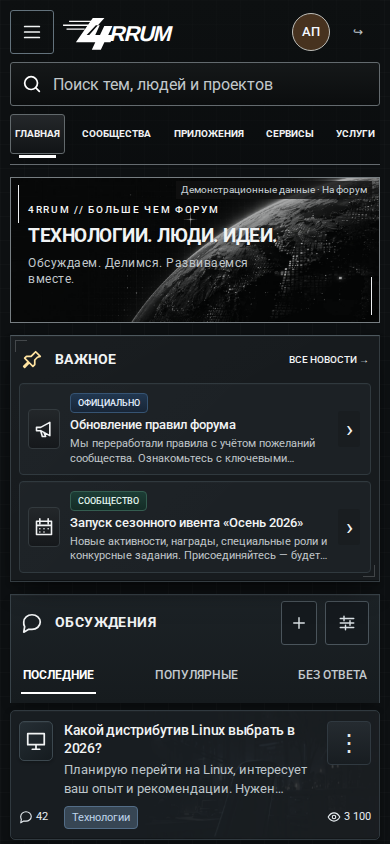
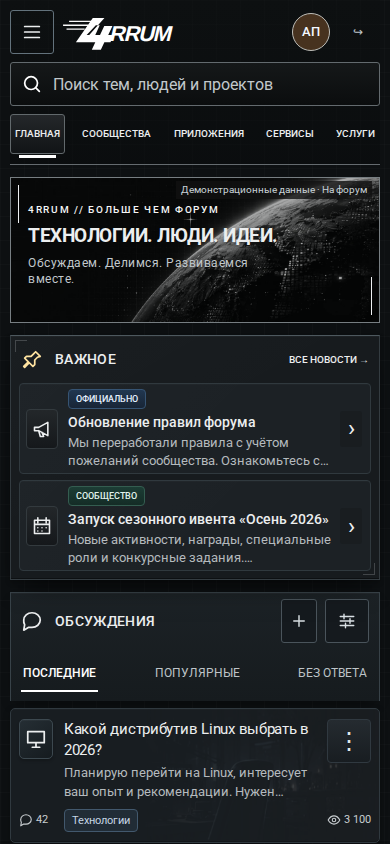
Главная: читаемая типографика и нейтральные цвета текста (#125)
* Forum typography: clearer content hierarchy and neutral secondary text

* Typography acceptance: retain the intentional neutral heading color

* Keep announcement spacing compact with larger readable copy

* Refresh reviewed typography baselines and restore strict visual checks

diff --git a/apps/web/app/home-alpha.css b/apps/web/app/home-alpha.css
@@ -124,8 +124,8 @@ body:has(.forum-home) .site-footer {display:none;}
 .forum-home .forum-topic-main-link::after {content:"";position:absolute;inset:0;z-index:0;}
 .forum-home .forum-topic > :not(.forum-topic-content) {position:relative;z-index:1;}
 .forum-home .forum-topic-content {grid-column:2;grid-row:1;min-width:0;}
-.forum-home .forum-topic h2 {font-size:14px;line-height:1.22;font-weight:500;margin:0 0 4px;display:-webkit-box;-webkit-line-clamp:2;-webkit-box-orient:vertical;overflow:hidden;}
-.forum-home .forum-topic-excerpt {font-size:12px;line-height:1.4;color:#c9cdcf;display:-webkit-box;-webkit-line-clamp:2;-webkit-box-orient:vertical;overflow:hidden;margin:0;}
+.forum-home .forum-topic h2 {font-size:15px;line-height:1.3;font-weight:400;margin:0 0 4px;display:-webkit-box;-webkit-line-clamp:2;-webkit-box-orient:vertical;overflow:hidden;}
+.forum-home .forum-topic-excerpt {font-size:13px;line-height:1.4;color:#b5babe;display:-webkit-box;-webkit-line-clamp:2;-webkit-box-orient:vertical;overflow:hidden;margin:0;}
 .forum-home .forum-topic-context {display:none;}
 .forum-home .forum-topic-category-cell {grid-column:3;min-width:0;}
 .forum-home .forum-topic-category-cell a {display:block;overflow:hidden;text-overflow:ellipsis;white-space:normal;overflow-wrap:anywhere;line-height:1.2;border:1px solid color-mix(in srgb,var(--chip-accent,#98b4cd) 45%,#42484c);border-radius:4px;background:color-mix(in srgb,var(--chip-accent,#98b4cd) 22%,#2a2e31);color:color-mix(in srgb,var(--chip-accent,#98b4cd) 42%,#fff);font-size:12px;padding:5px 8px;}
@@ -228,7 +228,7 @@ body:has(.forum-home) .site-footer {display:none;}
  .forum-home .forum-topic {grid-template-columns:44px minmax(0,1fr) 96px 30px 38px 100px 28px;gap:7px;padding-left:8px;}
  .forum-home .forum-topic-columns {grid-template-columns:minmax(0,1fr) 96px 30px 38px 100px 28px;gap:7px;padding-left:60px;font-size:8px;}
  .forum-home .forum-topic-category-icon {width:42px;height:46px;}
- .forum-home .forum-topic h2 {font-size:13px;}.forum-home .forum-topic-excerpt {font-size:11px;}
+ .forum-home .forum-topic h2 {font-size:14px;}.forum-home .forum-topic-excerpt {font-size:12.5px;}
  .forum-home .forum-topic-category-cell a {font-size:11px;padding:5px 6px;}
  .forum-home .forum-topic-last {gap:6px;}.forum-home .forum-topic-last .avatar {width:28px!important;height:28px!important;}
  .forum-home .forum-topic-last strong {font-size:11px;}.forum-home .forum-topic-last time {font-size:10px;}
@@ -304,12 +304,12 @@ body:has(.forum-home) .site-footer {display:none;}
 .forum-home .forum-topic {background:#181d21;border-color:#30393f;box-shadow:inset 0 1px #ffffff06,inset 0 -1px #0004,0 3px 7px #0004;}
 .forum-home .forum-topic::after {opacity:.24;filter:saturate(.18) contrast(.8);mask-image:linear-gradient(90deg,transparent 35%,#0008 65%,#000 100%);}
 .forum-home .forum-topic:hover,.forum-home .forum-topic:focus-within {border-color:#718a87;box-shadow:inset 0 1px #ffffff0c,0 0 0 1px #92b6ad18,0 5px 12px #0006;}
-.forum-home .forum-topic-excerpt {color:#bdc5ca;}
+.forum-home .forum-topic-excerpt {color:#b5babe;}
 .forum-home .forum-topic-category-icon {background:linear-gradient(145deg,#252e34,#151b1f);border-color:#3c484f;box-shadow:inset 0 1px #ffffff09,0 2px 3px #0003;}
 .forum-home .forum-category-heading.is-active {background:linear-gradient(90deg,#c2ded70a,transparent);box-shadow:inset 2px 0 #b4d4ca;}
 .forum-home .forum-ranking-tabs button[aria-pressed=true] {background:#152623;border-color:#45615a;box-shadow:inset 0 1px #c2ded70a;}
 .forum-home .forum-topic.is-read h2 {color:#dce1e4;}
-.forum-home .forum-topic.is-read .forum-topic-excerpt {color:#b8c0c5;}
+.forum-home .forum-topic.is-read .forum-topic-excerpt {color:#adb3b7;}
 .forum-home .forum-category-heading:has(.forum-category-toggle)>a {max-width:calc(100% - 48px);}
 .forum-home .forum-category-heading:has(.forum-category-toggle) .forum-category-counts {min-width:18px;}
 
@@ -332,4 +332,34 @@ body:has(.forum-home) .site-footer {display:none;}
   .forum-home .forum-ranking-tabs button,.forum-home .forum-ranking-period button {min-height:44px;font-size:12px;}
   .forum-home .forum-hero-kicker {font-size:10px;}
   .forum-home .forum-alpha-help a {min-height:44px;}
+}
+
+/* Editorial hierarchy: content first, quiet neutral metadata, real font weights. */
+.forum-home {--f-text:#eceeef;--f-muted:#b5babe;font-synthesis:none;}
+.forum-home :is(.forum-topic h2,.forum-important-text strong,.forum-popular-today strong) {color:#eceeef;}
+.forum-home :is(.forum-eyebrow,.forum-side-stats h2,.forum-panel h2,.forum-feed-title,.forum-important>header h2) {font-weight:500;letter-spacing:.35px;}
+.forum-home .forum-primary a {font-weight:500;}
+.forum-home .forum-important-row {padding:4px 6px;}
+.forum-home .forum-important-text strong {font-size:15px;line-height:1.3;margin-bottom:3px;}
+.forum-home .forum-important-text>span {font-size:13px;line-height:1.4;color:#b5babe;}
+.forum-home .forum-popular-today strong {font-size:14px;font-weight:400;line-height:1.35;}
+.forum-home .forum-popular-today small {color:#b5babe;font-size:12px;line-height:1.4;}
+.forum-home .forum-author-ranking strong {font-size:14px;color:#e2e5e7;}
+.forum-home .forum-topic-last strong {font-size:12px;font-weight:400;color:#d9dddf;line-height:1.3;}
+.forum-home .forum-topic-last time {font-size:12px;color:#aeb5b9;}
+.forum-home :is(.forum-topic-metric,.forum-author-ranking li>small,.forum-category-counts) {color:#c8cdd0;font-weight:400;}
+.forum-home :is(.forum-side-stats dt,.forum-popular-note,.forum-panel-footer,.forum-panel>header>a) {font-size:12px;color:#b5babe;}
+.forum-home :is(.forum-tabs button,.forum-ranking-period button,.forum-ranking-tabs button) {font-size:12px;font-weight:400;color:#bec4c8;}
+.forum-home .forum-tabs button[aria-pressed=true] {font-weight:500;}
+.forum-home .forum-topic-columns {font-size:11px;letter-spacing:.15px;color:#aeb7bc;}
+.forum-home .forum-topic-category-cell a {background:color-mix(in srgb,var(--chip-accent,#98b4cd) 12%,#181d21);border-color:color-mix(in srgb,var(--chip-accent,#98b4cd) 32%,#30393f);color:color-mix(in srgb,var(--chip-accent,#98b4cd) 26%,#e7ebed);}
+@media (min-width:761px) and (max-width:1450px) {
+ .forum-home .forum-topic-columns {font-size:10px;letter-spacing:0;}
+ .forum-home .forum-tabs {gap:10px;}.forum-home .forum-tabs button {font-size:11px;}
+ .forum-home .forum-ranking-period button {font-size:11px;}
+}
+@media (max-width:760px) {
+ .forum-home .forum-topic h2 {font-size:15px;line-height:1.35;}
+ .forum-home .forum-important-text strong {font-size:14px;}
+ .forum-home .forum-important-text>span {font-size:12.5px;}
 }
